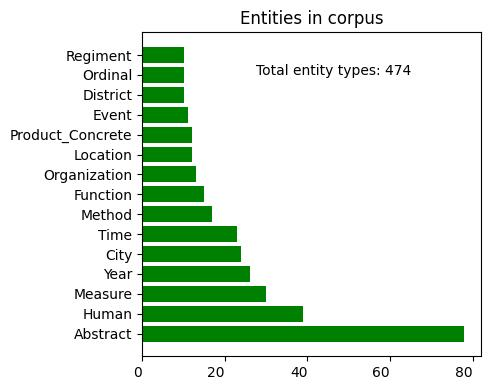
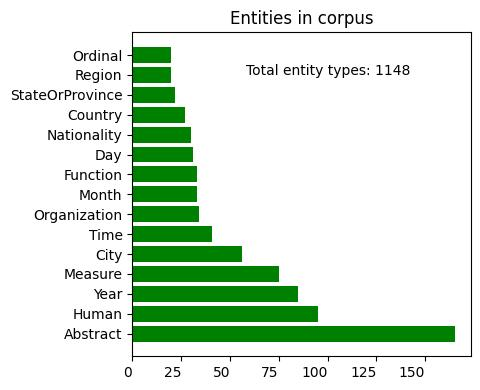
updated the different READMEs for the wikipedia corpus

diff --git a/corpora/MR4AP-wikipedia/README.md b/corpora/MR4AP-wikipedia/README.md
@@ -1,4 +1,4 @@
-# MR4AP-wikipedia corpus (v0.1)
+# MR4AP-wikipedia corpus (v0.2)
 
 ## Disclaimer
 
@@ -6,7 +6,7 @@ This corpus is supposed to grow in size.
 
 ## Repository contents
 
-This repository hosts the **MR4AP-wikipedia** corpus v0.1. The `files` folder contains a subfolder per language. Each
+This repository hosts the **MR4AP-wikipedia** corpus v0.2. The `files` folder contains a subfolder per language. Each
 subfolder contains the available JSON files. Those files present three main fields:
 * `id`: the text id,
 * `text`: the plain text,
@@ -28,12 +28,12 @@ Here is an overview of the dataset's contents:
 
 | Language  | Documents | Sentences |
 |-----------|-----------|-----------|
-| French    | 20        | 60        |
+| French    | 45        | 135       |
 | English   | 4         | 12        |
 | Italian   | 4         | 12        |
 | MSA       | 4         | 12        |
 | Spanish   | 1         | 3         |
-| **Total** | **33**    | **99**    |
+| **Total** | **58**    | **174**   |
 
 The annotation effort must continue! If you want to try MR4AP out, you can find:
 * Extensive annotation guidelines [here](../../guidelines/guidelines.md),
@@ -51,26 +51,11 @@ see the corresponding folders.
 
 | Item                            | Number |
 |---------------------------------|--------|
-| Tokens                          | 2,299  |
-| Avg tokens per sentence         | 23.22  |
-| Nodes                           | 1,432  |
-| Avg entities per document       | 23.12  |
-| Avg dynamic events per document | 5.33   |
-| Avg stative events per document | 9.76   |
-| Relations                       | 1,377  |
-| Cross-sentence relations        | 76     |
-| Avg relations per document      | 41.73  |
-
-Below are some additional insights.
-
-![Semantic types in corpus](./img/semantic_types_full.jpg)  
-Fig.: Most frequent semantic types (k=15)
-
-![Relations in corpus](./img/relations_full.jpg)  
-Fig.: Most frequent relation types (k=15)
-
-![Dynamic events in corpus](./img/dynamic_events_full.jpg)  
-Fig.: Most frequent dynamic event classes (k=15)
-
-![Stative events in corpus](./img/stative_events_full.jpg)  
-Fig.: Frequency for stative event classes
+| Tokens                          | 4,851  |
+| Avg tokens per sentence         | 24.93  |
+| Nodes                           | 2,500  |
+| Avg entities per document       | 23.30  |
+| Avg dynamic events per document | 4.69   |
+| Avg stative events per document | 10.73  |
+| Relations                       | 2,438  |
+| Avg relations per document      | 54.18  |

diff --git a/corpora/MR4AP-wikipedia/files/fr/README.md b/corpora/MR4AP-wikipedia/files/fr/README.md
@@ -7,18 +7,17 @@ See the [MR4AP-wikipedia page](../../README.md) for information about the whole 
 ## Language-specific corpus statistics
 
 | Item                            | Number |
-|---------------------------------|--------|
-| Documents                       | 20     |
-| Sentences                       | 60     |
-| Tokens                          | 1,418  |
-| Avg tokens per sentence         | 23.63  |
-| Nodes                           | 859    |
-| Avg entities per document       | 23.7   |
-| Avg dynamic events per document | 5.9    |
-| Avg stative events per document | 9.25   |
-| Relations                       | 845    |
-| Cross-sentence relations        | 50     |
-| Avg relations per document      | 42.25  |
+|---------------------------------|-------|
+| Documents                       | 45    |
+| Sentences                       | 135   |
+| Tokens                          | 3,970 |
+| Avg tokens per sentence         | 45.98 |
+| Nodes                           | 1,927 |
+| Avg entities per document       | 25.51 |
+| Avg dynamic events per document | 6.64  |
+| Avg stative events per document | 8.91  |
+| Relations                       | 1,906 |
+| Avg relations per document      | 42.36 |
 
 Below are some additional insights.
 

diff --git a/README.md b/README.md
@@ -21,4 +21,4 @@ For any reference to the article, please cite it:
 
 Bastien Giordano and Cédric Lopez. 2023. [MR4AP: Meaning Representation for Application Purposes](https://dmr2023.github.io/pdf/2023.dmr-1.11.pdf). 
 _In Proceedings of the Fourth International Workshop on Designing Meaning Representations_, pages 110-121, Nancy, France. 
-Association for Computational Linguistics. (To be published)
+Association for Computational Linguistics.

diff --git a/corpora/MR4AP-wikipedia/files/ar/README.md b/corpora/MR4AP-wikipedia/files/ar/README.md
@@ -17,7 +17,6 @@ See the [MR4AP-wikipedia page](../../README.md) for information about the whole 
 | Avg dynamic events per document | 4.25   |
 | Avg stative events per document | 10.25  |
 | Relations                       | 159    |
-| Cross-sentence relations        | 8      |
 | Avg relations per document      | 39.75  |
 
 Below are some additional insights.

diff --git a/corpora/MR4AP-wikipedia/files/en/README.md b/corpora/MR4AP-wikipedia/files/en/README.md
@@ -17,7 +17,6 @@ See the [MR4AP-wikipedia page](../../README.md) for information about the whole 
 | Avg dynamic events per document | 4.25   |
 | Avg stative events per document | 10.25  |
 | Relations                       | 159    |
-| Cross-sentence relations        | 8      |
 | Avg relations per document      | 39.75  |
 
 Below are some additional insights.

diff --git a/corpora/MR4AP-wikipedia/files/es/README.md b/corpora/MR4AP-wikipedia/files/es/README.md
@@ -17,7 +17,6 @@ See the [MR4AP-wikipedia page](../../README.md) for information about the whole 
 | Avg dynamic events per document | 4.0    |
 | Avg stative events per document | 14.0   |
 | Relations                       | 52     |
-| Cross-sentence relations        | 2      |
 | Avg relations per document      | 40.5   |
 
 Below are some additional insights.

diff --git a/corpora/MR4AP-wikipedia/files/it/README.md b/corpora/MR4AP-wikipedia/files/it/README.md
@@ -17,7 +17,6 @@ See the [MR4AP-wikipedia page](../../README.md) for information about the whole 
 | Avg dynamic events per document | 4.75   |
 | Avg stative events per document | 10.25  |
 | Relations                       | 162    |
-| Cross-sentence relations        | 8      |
 | Avg relations per document      | 40.5   |
 
 Below are some additional insights.
